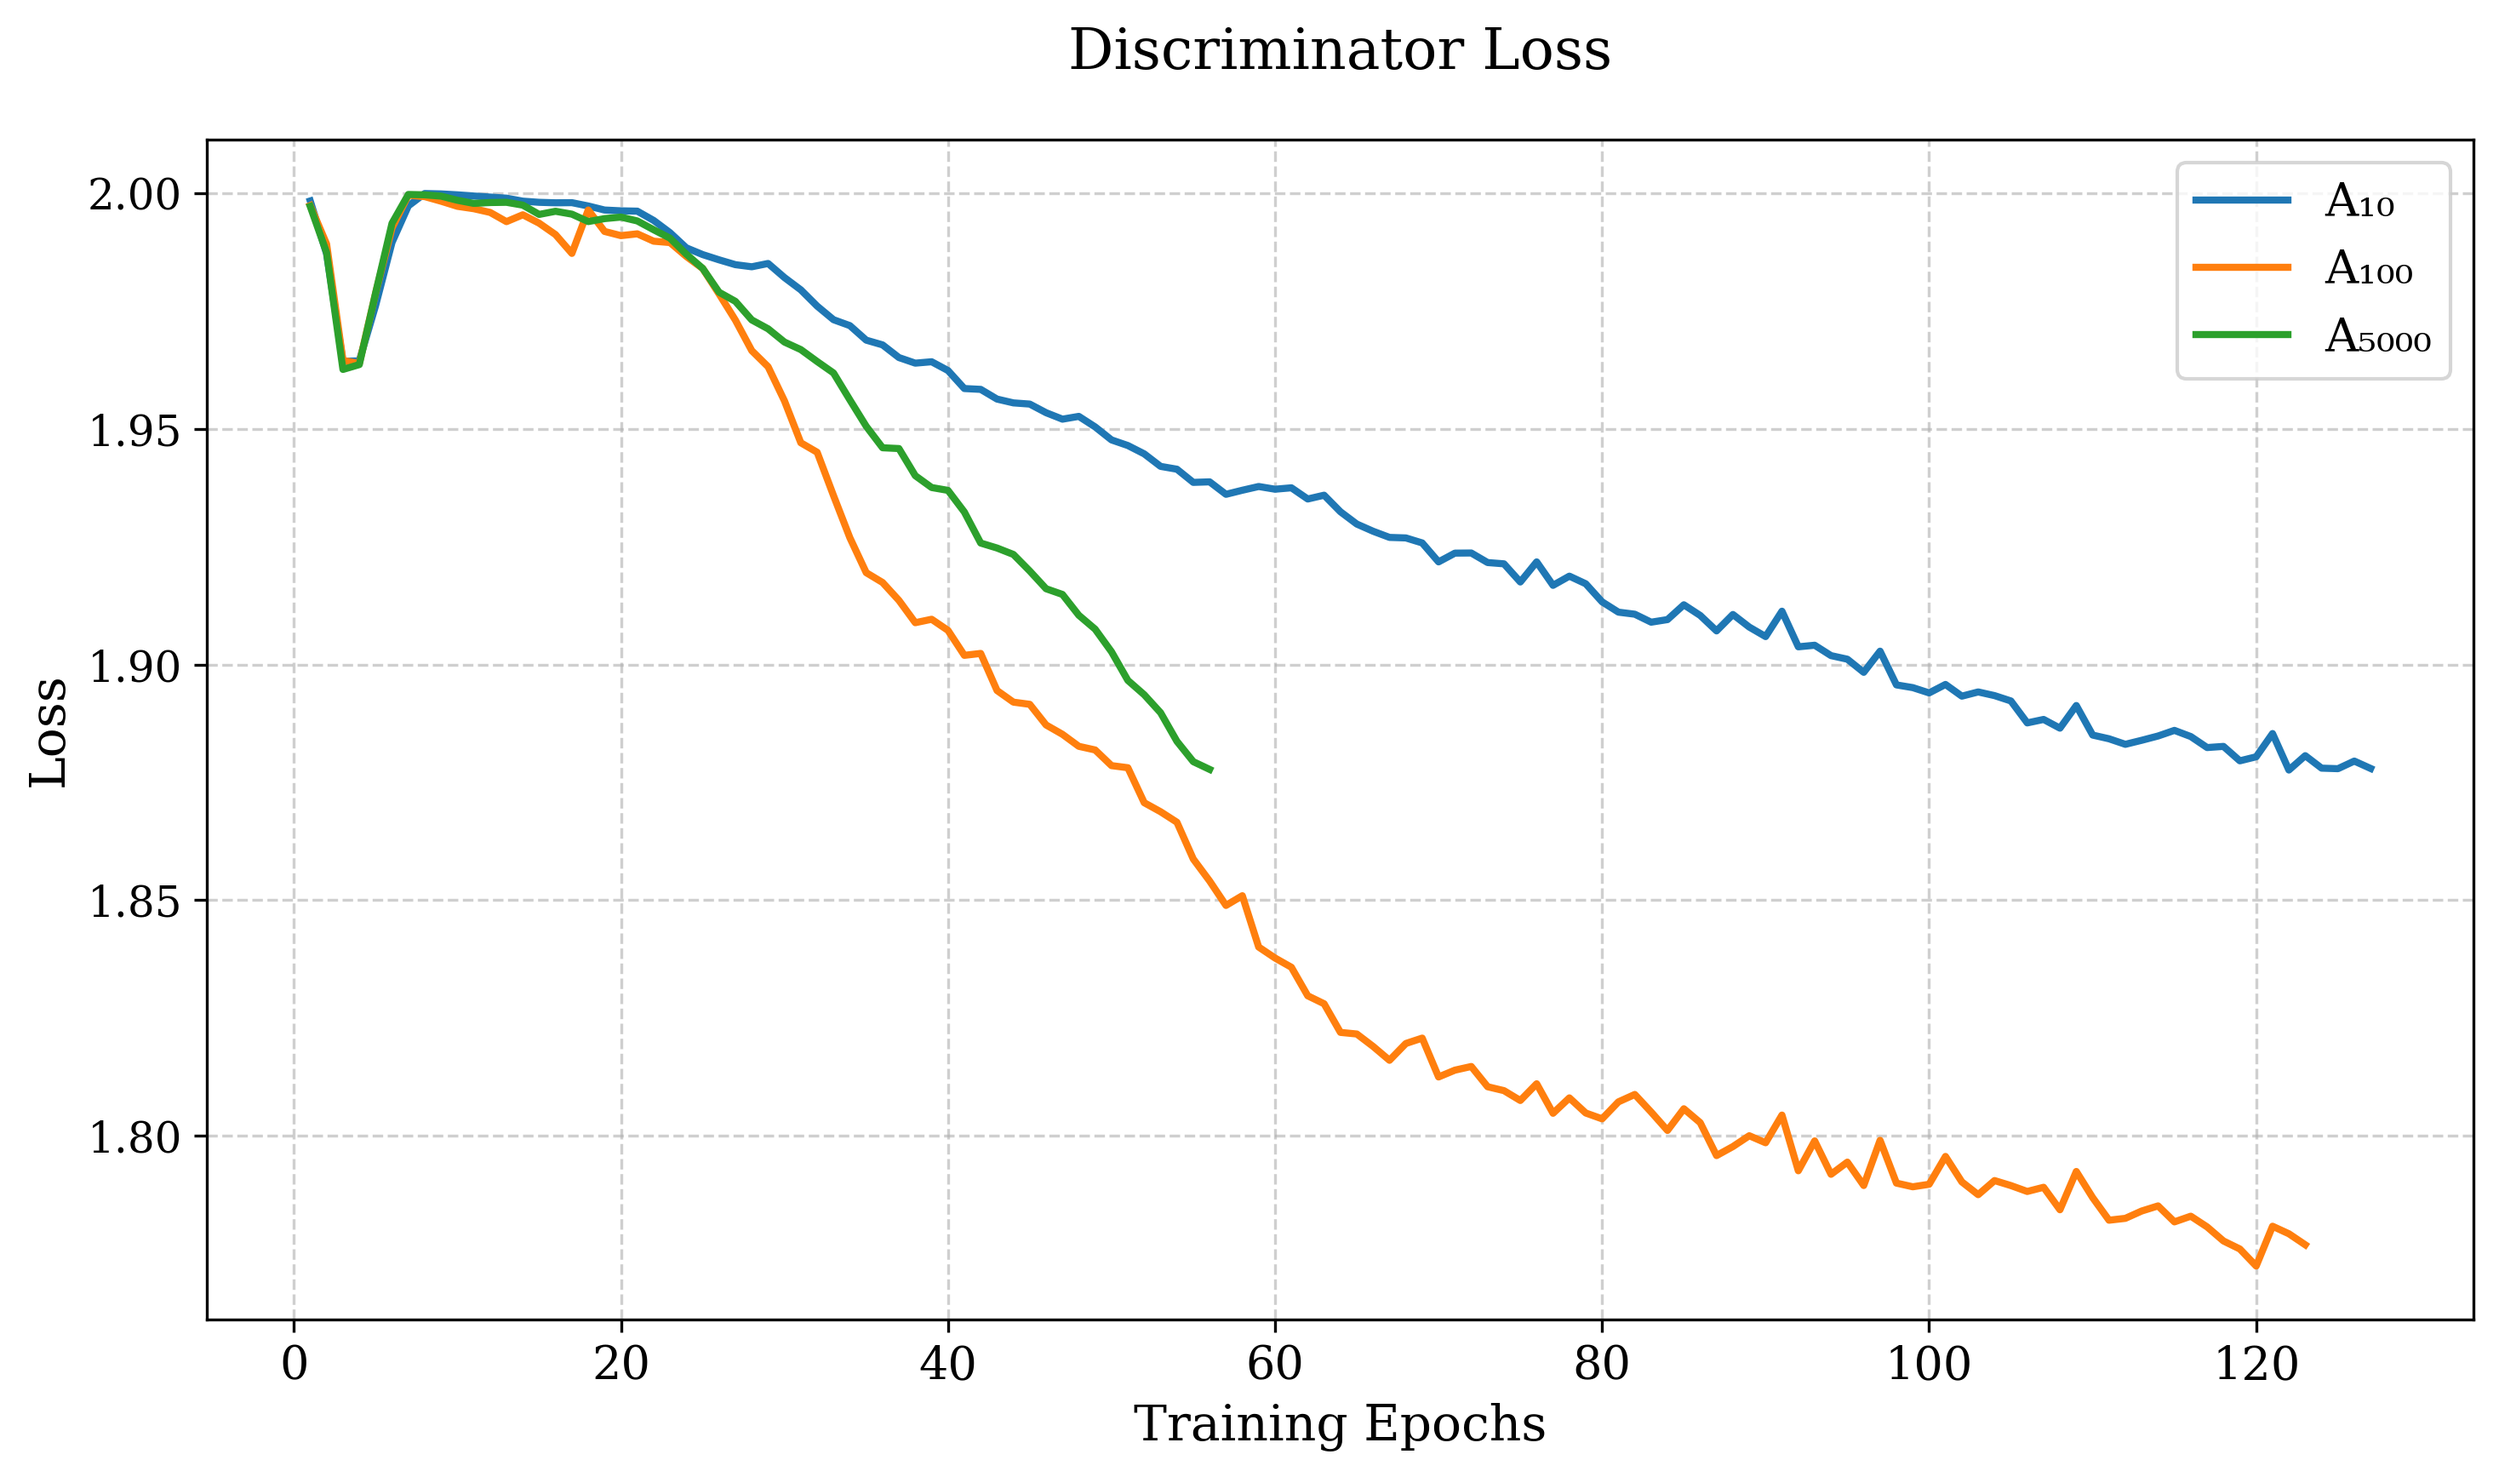
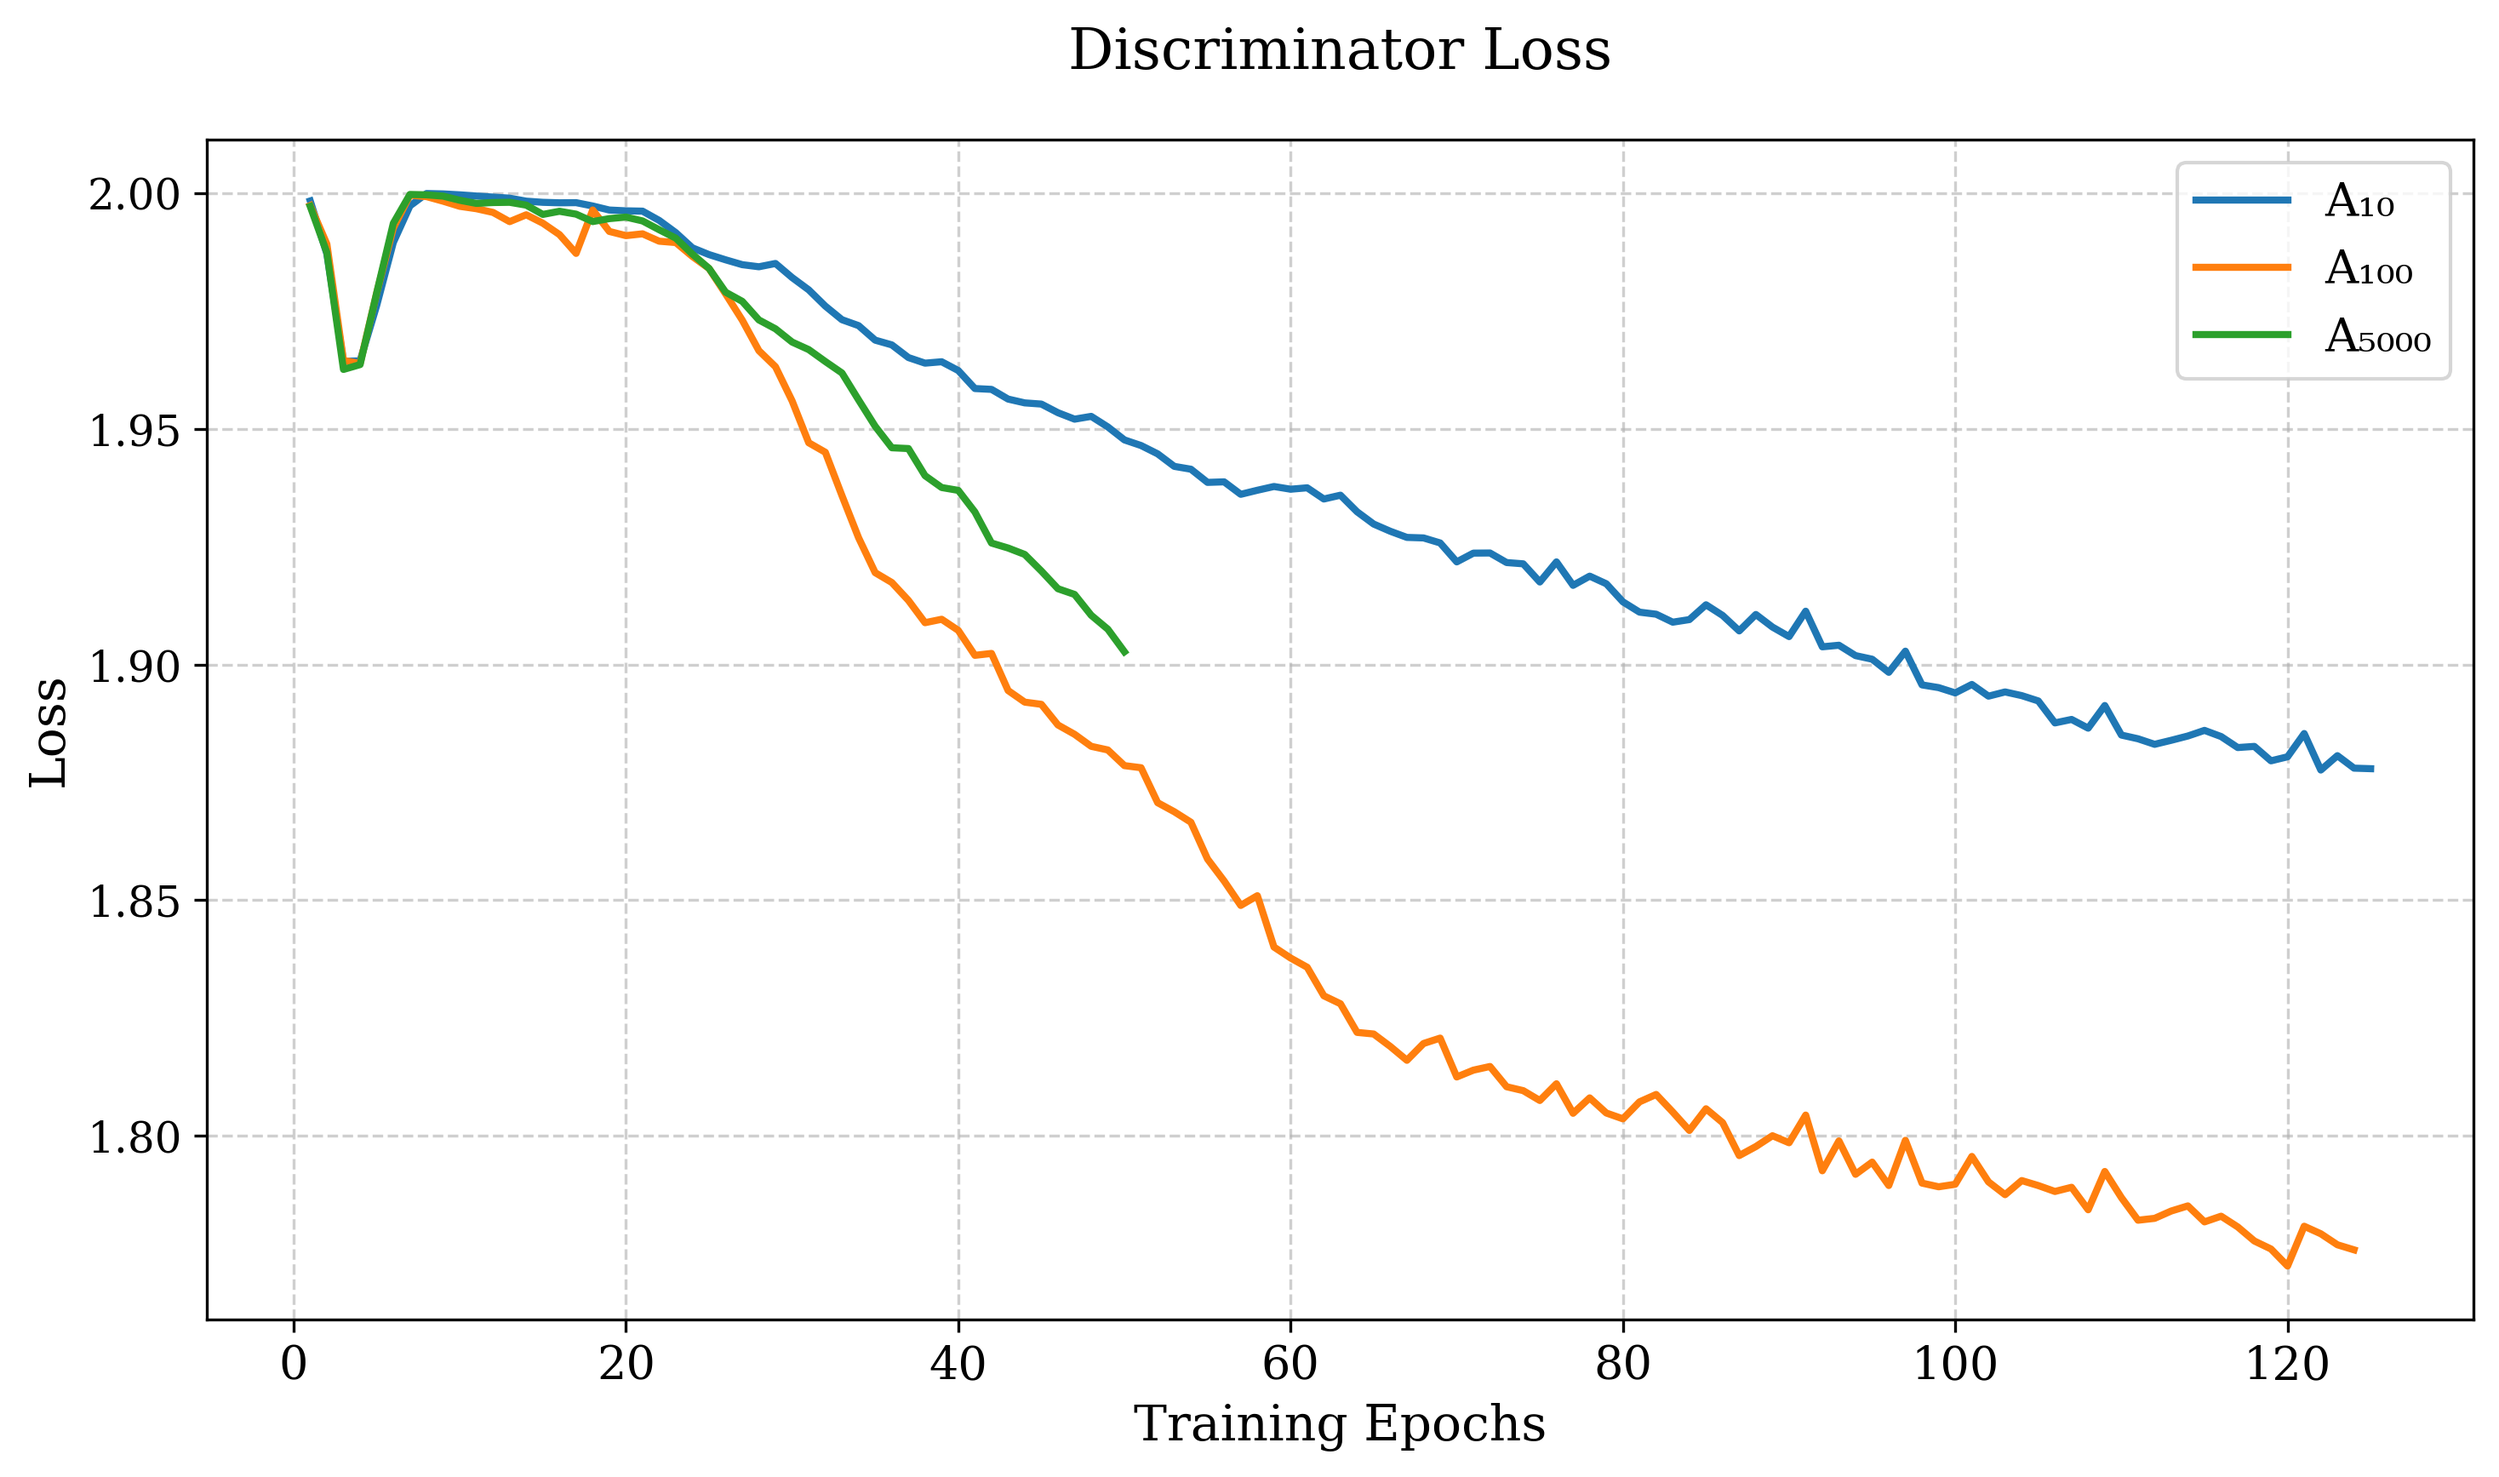
updated README

diff --git a/utils/analyze_batch_train.py b/utils/analyze_batch_train.py
@@ -50,6 +50,8 @@ def parse_arguments():
     parser.add_argument('--colors', type=str, nargs='+', 
                       default=['#1f77b4', '#ff7f0e', '#2ca02c', '#d62728', '#9467bd'],
                       help='Colors for different runs')
+    parser.add_argument('--epoch-limits', type=int, nargs='+', default=None,
+                      help='Maximum epochs to plot for each model (one per input file)')
     return parser.parse_args()
 
 def load_history(json_path: str) -> List[Dict[str, Any]]:
@@ -71,7 +73,8 @@ def plot_metrics(
     ylabel: Optional[str] = None,
     font_size: int = 12,
     line_styles: Optional[List[str]] = None,
-    colors: Optional[List[str]] = None
+    colors: Optional[List[str]] = None,
+    epoch_limits: Optional[List[int]] = None
 ) -> None:
     """Plot the same metric from multiple training runs on the same axes."""
     # Set up the figure
@@ -106,21 +109,36 @@ def plot_metrics(
             print(f"Warning: Metric '{metric}' not found in training data for {label}")
             continue
         
+        # Apply epoch limit if specified
+        max_epoch = epoch_limits[i] if epoch_limits and i < len(epoch_limits) else None
+        
+        # Prepare training data
         epochs = range(1, len(train_metrics) + 1)
+        
+        # Apply epoch limit by taking first N elements
+        if max_epoch is not None:
+            plot_epochs = list(epochs)[:max_epoch]
+            plot_train = train_metrics[:max_epoch]
+            plot_val = val_metrics[:max_epoch] if val_metrics else []
+        else:
+            plot_epochs = list(epochs)
+            plot_train = train_metrics
+            plot_val = val_metrics if val_metrics else []
+        
         line_style = line_styles[i % len(line_styles)]
         color = colors[i % len(colors)]
         
         # Plot training data
-        plt.plot(epochs, train_metrics, 
+        plt.plot(plot_epochs, plot_train, 
                 linestyle=line_style, 
                 color=color,
                 linewidth=2,
                 label=f"{label}")
         
         # Plot validation data if available
-        if val_metrics and any(v is not None for v in val_metrics):
-            plt.plot(epochs[:len(val_metrics)], 
-                    [v for v in val_metrics if v is not None],
+        if plot_val and any(v is not None for v in plot_val):
+            plt.plot(plot_epochs[:len(plot_val)], 
+                    [v for v in plot_val if v is not None],
                     linestyle=line_style,
                     color=color,
                     linewidth=2,
@@ -129,7 +147,6 @@ def plot_metrics(
     
     # Format title with Unicode subscript for A_{100}
     title_text = title or f'Training and Validation {metric}'
-    title_text = title_text.replace('$A_{100}$', 'A₁₀₀')
     
     plt.title(title_text, fontsize=font_size+2, pad=20)
     plt.xlabel(xlabel, fontsize=font_size)
@@ -182,7 +199,8 @@ def main():
             ylabel=args.ylabel,
             font_size=args.font_size,
             line_styles=args.line_styles,
-            colors=args.colors
+            colors=args.colors,
+            epoch_limits=args.epoch_limits
         )
         
     except FileNotFoundError as e:

diff --git a/README.md b/README.md
@@ -2,18 +2,6 @@
 
 This repository contains code for audio watermarking experiments for CS224S final project (partnering with Sanas.ai)
 
-## TODO
-1. Training:
-- figure out training with custom dataset (https://github.com/facebookresearch/audioseal/blob/main/docs/TRAINING.md)
-- will have to use dora, and other tools, might be difficult formating the dataset to AudioCraft datasets
-- once that is figured out, make a script to downsample to 8khz and train
-- audiocraft dataset (https://github.com/facebookresearch/audiocraft/blob/main/docs/DATASETS.md)
-- dora documentation (https://github.com/facebookresearch/dora)
-
-2. Evaluation:
-- figure out audiobenchmark evals
-- simulate "attacks" and see case by case how decoding gets affected
-
 ## Setup
 
 1. **Install Conda if you haven't already:**
@@ -173,12 +161,14 @@ python utils/analyze_batch_train.py \
     --ylabel "Loss" \
     --legend "A₁₀" "A₁₀₀" "A₅₀₀₀" \
     --font-size 14 \
-    --line-styles - - -
+    --line-styles - - - \
+    --epoch-limits 125 125 50
 ```
 
 **Additional Options:**
 - `--line-styles`: Line styles for each run (e.g., `- -- -` for solid, dashed, dash-dot)
 - `--colors`: Custom colors for each run (hex codes)
+- `--epoch-limits`: Maximum epochs to plot for each run (e.g., `125 125 50` for 125 epochs for first two runs, 50 for third)
 - Other options same as `analyze_train.py`
 
 **Notes:**
@@ -191,6 +181,8 @@ python utils/analyze_batch_train.py \
 - The script automatically handles both training and validation metrics if available
 - For subscripts in titles, use Unicode characters (e.g., A₁₀₀)
 - Output is saved as a high-resolution PNG file (300 DPI)
+- Use `--epoch-limits` to compare models trained for different numbers of epochs
+- When using `--epoch-limits`, make sure the number of limits matches the number of input files
 
 
 ## Training
@@ -347,3 +339,8 @@ Check if the watermark was successfully embedded:
 ```bash
 python utils/decode.py output.wav
 ```
+
+## References
+- [AudioSeal Training Guide](https://github.com/facebookresearch/audioseal/blob/main/docs/TRAINING.md)
+- [AudioCraft Datasets](https://github.com/facebookresearch/audiocraft/blob/main/docs/DATASETS.md)
+- [Dora Documentation](https://github.com/facebookresearch/dora)
